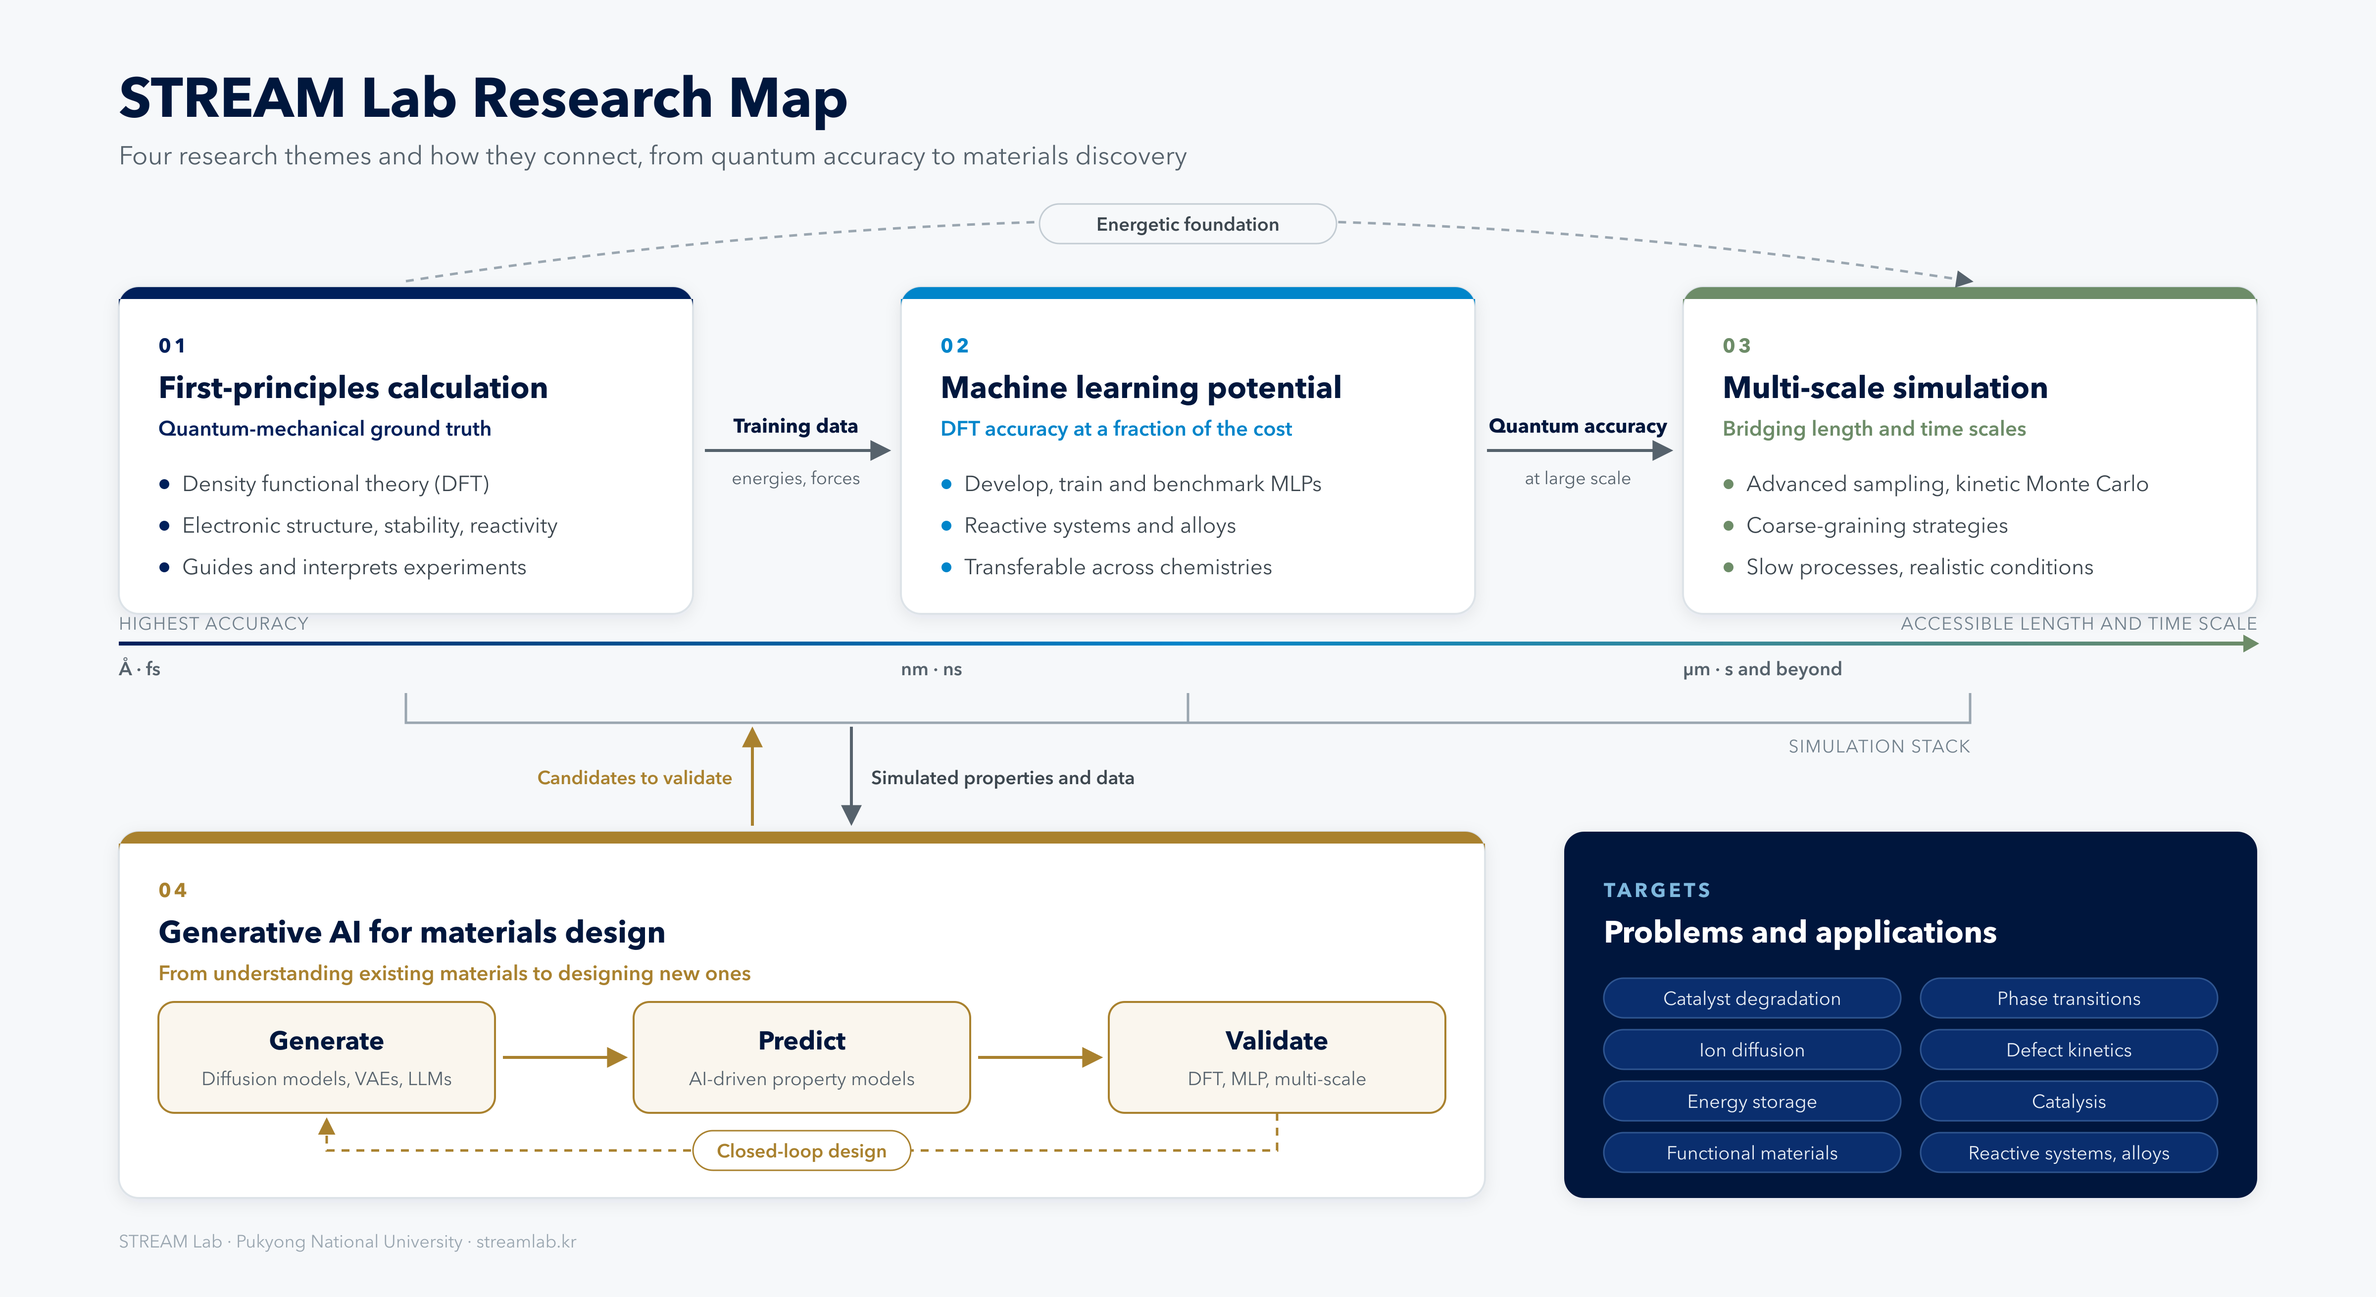
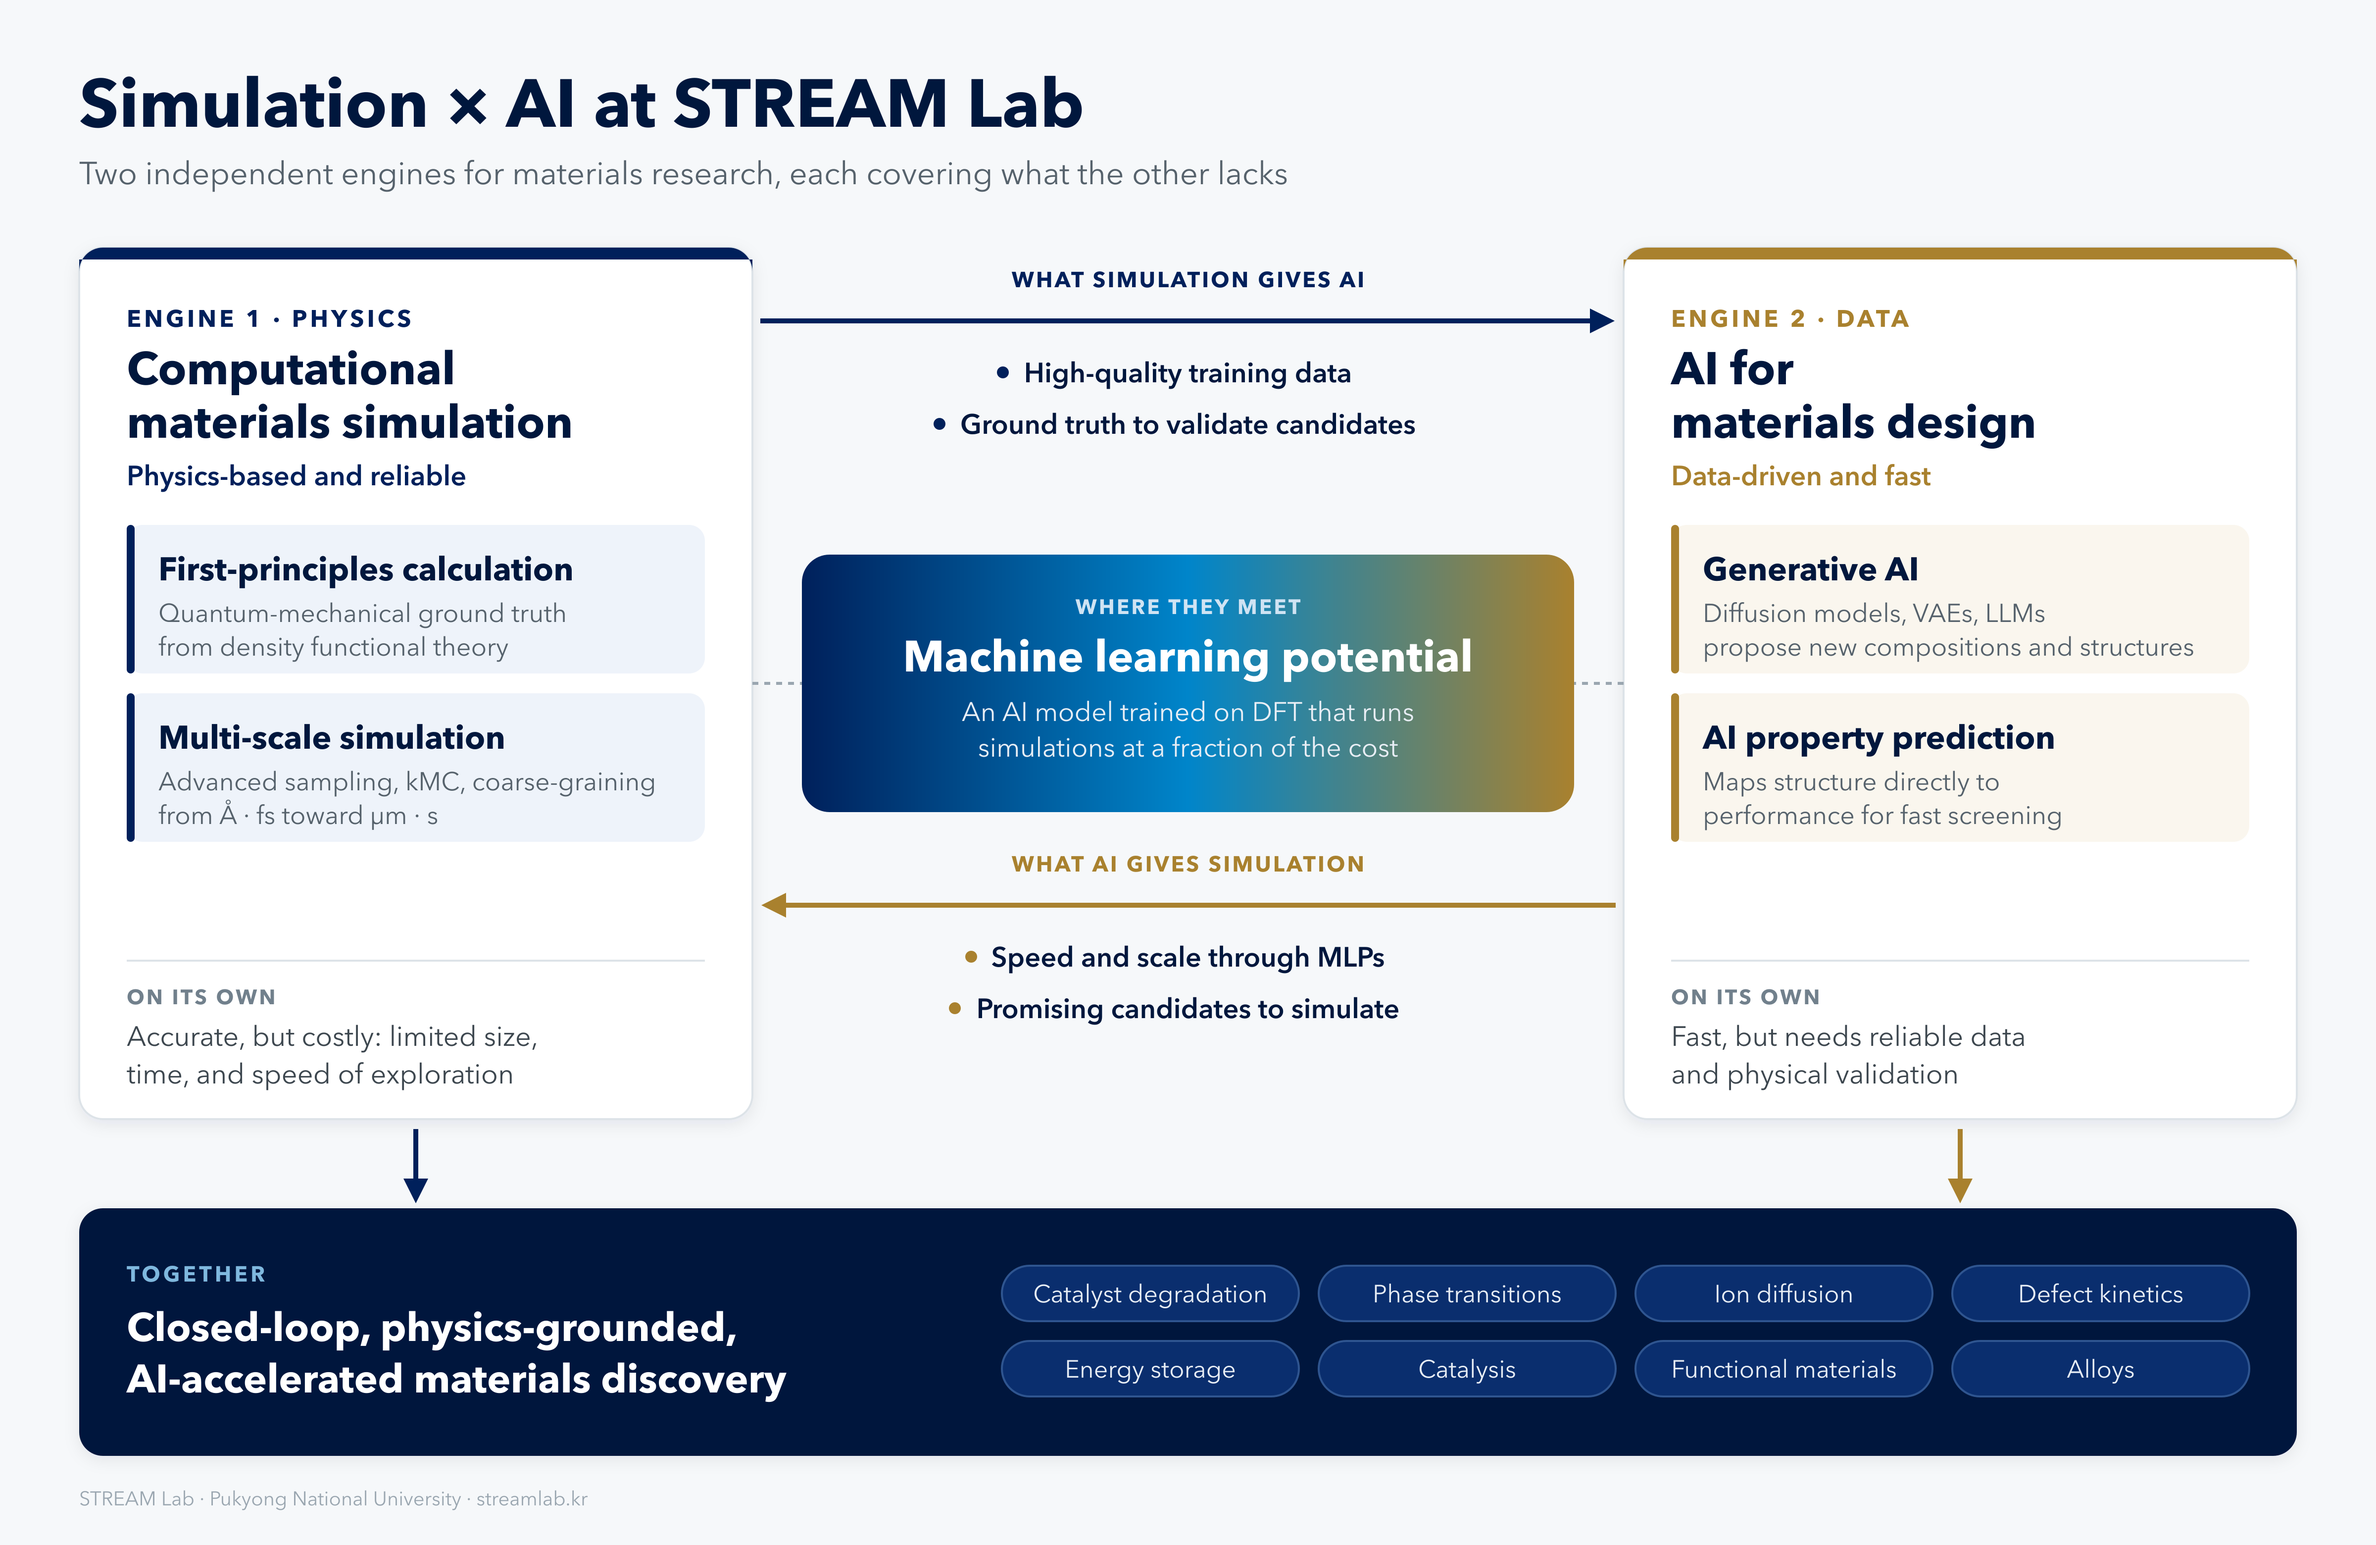
Replace research map with simulation × AI synergy figure
Claude-Session: https://claude.ai/code/session_011NuuZa61m5pFkE63KQMN6y

diff --git a/research.html b/research.html
@@ -72,9 +72,9 @@
 
     <figure style="margin:0; display:flex; flex-direction:column; gap:12px;">
       <a href="assets/research_map.png" target="_blank" rel="noopener" style="display:block; border-radius:var(--radius-lg); overflow:hidden; border:1px solid var(--border-subtle); box-shadow:var(--shadow-sm); background:var(--fog-50);">
-        <img src="assets/research_map.png" alt="STREAM Lab research map: first-principles calculation provides training data for machine learning potentials, which bring quantum accuracy to multi-scale simulation; generative AI proposes candidates that the simulation stack validates in a closed loop." style="width:100%; height:auto; display:block;">
+        <img src="assets/research_map.png" alt="Simulation × AI at STREAM Lab: physics-based computational materials simulation and data-driven AI for materials design are two independent engines. Simulation gives AI high-quality training data and ground truth for validation; AI gives simulation speed and scale through machine learning potentials and promising candidates to simulate. Together they enable closed-loop, physics-grounded, AI-accelerated materials discovery." style="width:100%; height:auto; display:block;">
       </a>
-      <figcaption style="font-family:var(--font-body); font-size:var(--text-xs); color:var(--text-tertiary);">How our research themes connect. Click to view full size.</figcaption>
+      <figcaption style="font-family:var(--font-body); font-size:var(--text-xs); color:var(--text-tertiary);">How simulation and AI work together in our research. Click to view full size.</figcaption>
     </figure>
 
     <section id="first-principles" class="research-row" style="display:grid; grid-template-columns:240px 1fr; gap:32px; scroll-margin-top:24px; align-items:center;">
